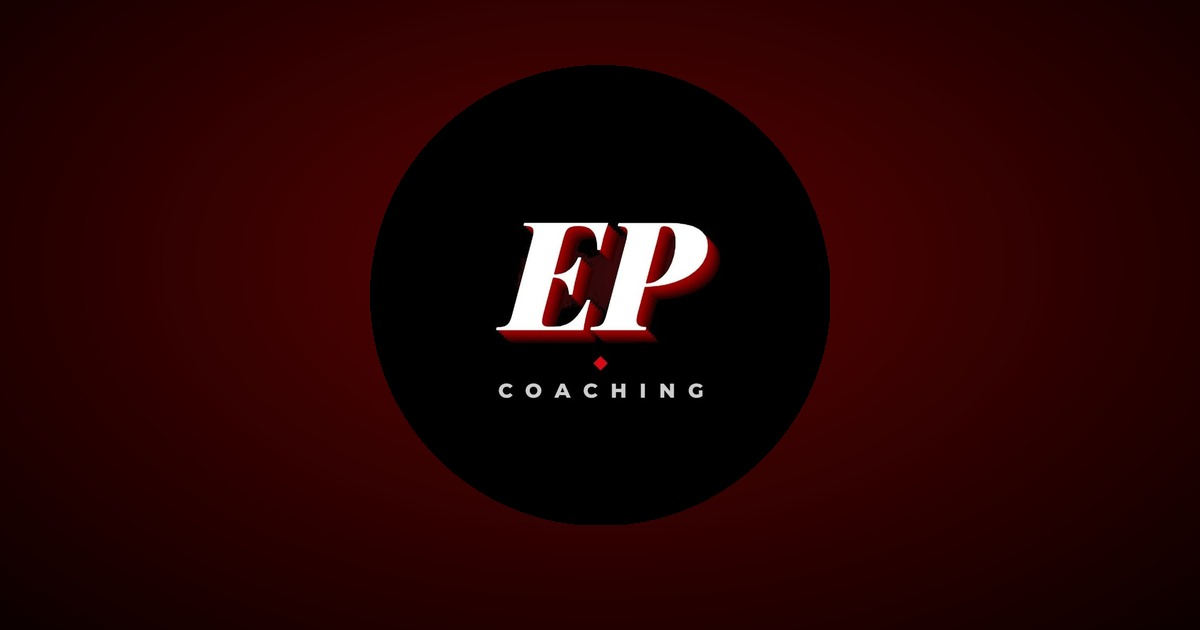
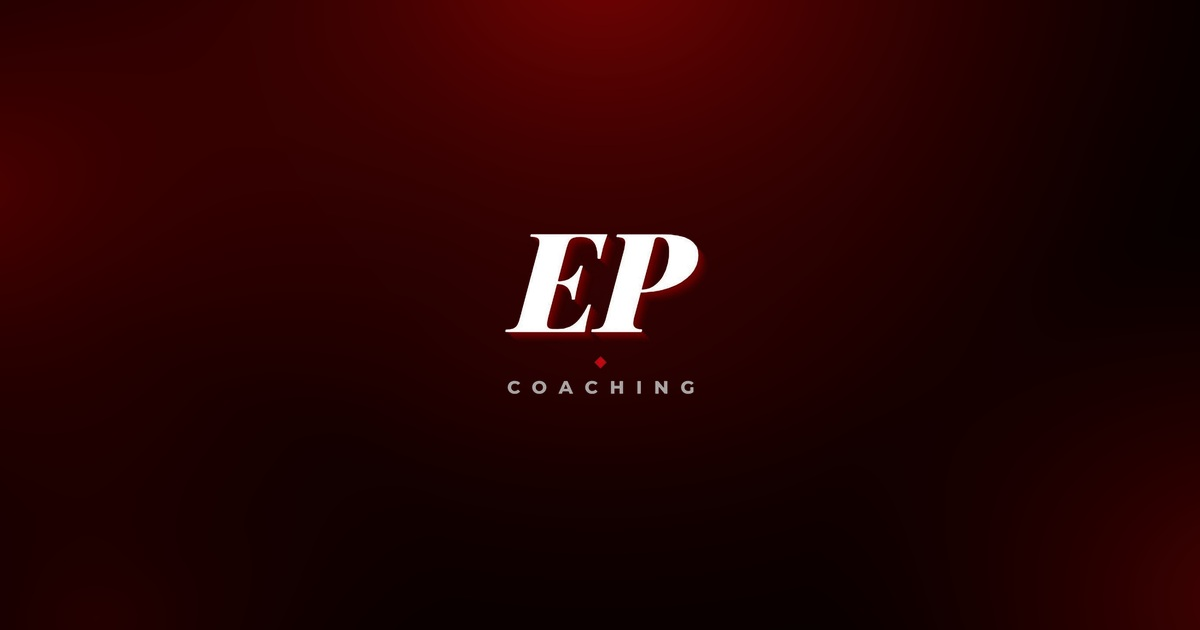
Feat: rappel hebdo de réengagement, nouvelle image et texte de partage
- Nouveau job hebdomadaire (Supabase pg_cron, comme nag-tasks) qui relance
  les clients inscrits mais peu actifs : push s'ils sont abonnés, sinon
  email — jamais plus d'1x/semaine par personne (garde-fou en base en plus
  du cron lui-même). Messages variés orientés découverte de fonctionnalité
  (roadmap, communauté, nutrition, logbook, ressources).
- Image de partage (og-image.jpg) refaite : le fond uni + halo noir autour
  du logo est remplacé par un dégradé qui reprend l'ambiance réelle de
  l'appli, logo directement dessus (fond noir du logo source détouré).
- Texte de partage réécrit : l'ancien ("Entraînement, nutrition et suivi...")
  ne vendait rien. Nouveau texte centré sur la promesse réelle — une vraie
  communauté et tous les outils réunis pour atteindre son objectif.

diff --git a/app/api/cron/weekly-reengagement/route.ts b/app/api/cron/weekly-reengagement/route.ts
@@ -1,0 +1,93 @@
+import { NextResponse } from "next/server";
+import { createAdminClient } from "@/lib/supabase-admin";
+import { sendPushToUser } from "@/lib/push";
+import { sendBrevoEmail } from "@/utils/brevo";
+
+// Rappel hebdomadaire de réengagement — 1 fois par semaine maximum, par
+// client, jamais plus (garde-fou via last_reengagement_notified_at, en plus
+// du cron lui-même qui ne tourne qu'une fois par semaine). Déclenché par
+// Supabase pg_cron, voir supabase/migrations/20260715_reengagement_notifications.sql.
+// Deux canaux :
+//   - push, si le client a déjà autorisé les notifications (sendPushToUser
+//     renvoie reason: "no subscription" sinon, ce qui sert de bascule) ;
+//   - sinon email, pour ne jamais laisser un inscrit sans aucune sollicitation
+//     simplement parce qu'il n'a pas (encore) accepté les notifications.
+
+const PUSH_MESSAGES = [
+  { title: "🗺 Ta Road Map t'attend", body: "Fixe tes objectifs à 3 mois si ce n'est pas déjà fait.", url: "/dashboard/client/roadmap" },
+  { title: "🏆 Partage ta victoire de la semaine", body: "La communauté est là pour t'encourager — même une petite victoire compte.", url: "/dashboard/client/communaute/victoires" },
+  { title: "🍽 Check tes macros du jour", body: "Ton calculateur nutrition est prêt en 2 minutes.", url: "/dashboard/client/nutrition" },
+  { title: "💪 Log ta dernière séance", body: "Même une séance rapide mérite sa place dans ton logbook.", url: "/dashboard/client/logbook" },
+  { title: "📚 Nouvelles ressources dispo", body: "Des guides et recettes gratuites t'attendent.", url: "/dashboard/client/ressources" },
+];
+
+const EMAIL_SUBJECT = "On continue ?";
+function emailBody(firstName: string) {
+  const url = process.env.NEXT_PUBLIC_APP_URL ?? "https://ep-coaching.vercel.app";
+  return `
+    <div style="font-family:sans-serif;background:#270101;color:#F5EDED;padding:32px;border-radius:12px;">
+      <h2 style="color:#E01E1E;margin-top:0;">Salut ${firstName} 👋</h2>
+      <p>Ton compte EP Coaching est prêt — programme, nutrition, communauté, tout est gratuit et accessible dès maintenant.</p>
+      <p>Deux minutes suffisent pour reprendre où tu t'es arrêté·e.</p>
+      <a href="${url}/dashboard/client" style="background:#E01E1E;color:white;padding:12px 24px;border-radius:8px;text-decoration:none;display:inline-block;font-weight:700;margin-top:8px;">
+        Ouvrir mon espace
+      </a>
+    </div>
+  `;
+}
+
+export async function GET(req: Request) {
+  const auth = req.headers.get("authorization");
+  if (auth !== `Bearer ${process.env.CRON_SECRET}`) {
+    return NextResponse.json({ error: "Unauthorized" }, { status: 401 });
+  }
+
+  const supabase = createAdminClient();
+  const sevenDaysAgo = new Date(Date.now() - 7 * 24 * 60 * 60 * 1000).toISOString();
+
+  const { data: clients } = await supabase
+    .from("profiles")
+    .select("id, full_name")
+    .eq("role", "client")
+    .not("onboarding_completed_at", "is", null)
+    .or(`last_reengagement_notified_at.is.null,last_reengagement_notified_at.lt.${sevenDaysAgo}`);
+
+  let pushed = 0;
+  let emailed = 0;
+
+  for (const client of (clients as { id: string; full_name: string | null }[]) ?? []) {
+    const msg = PUSH_MESSAGES[Math.floor(Math.random() * PUSH_MESSAGES.length)];
+    const pushResult = await sendPushToUser(client.id, msg.title, msg.body, msg.url);
+
+    let notified = pushResult.ok;
+    if (pushResult.ok) {
+      pushed++;
+    } else if (pushResult.reason === "no subscription") {
+      const { data: profile } = await supabase
+        .from("profiles")
+        .select("email")
+        .eq("id", client.id)
+        .single();
+      if (profile?.email) {
+        const ok = await sendBrevoEmail({
+          to: profile.email,
+          subject: EMAIL_SUBJECT,
+          htmlContent: emailBody(client.full_name?.split(" ")[0] ?? ""),
+        });
+        if (ok) {
+          emailed++;
+          notified = true;
+        }
+      }
+    }
+
+    if (notified) {
+      await supabase
+        .from("profiles")
+        .update({ last_reengagement_notified_at: new Date().toISOString() })
+        .eq("id", client.id);
+    }
+  }
+
+  return NextResponse.json({ ok: true, candidates: clients?.length ?? 0, pushed, emailed });
+}

diff --git a/app/layout.tsx b/app/layout.tsx
@@ -16,9 +16,9 @@ const playfair = Playfair_Display({
 });
 
 const APP_URL = process.env.NEXT_PUBLIC_APP_URL ?? "https://ep-coaching.vercel.app";
-const SITE_TITLE = "EP Coaching";
+const SITE_TITLE = "EP Coaching — Ta transformation commence ici";
 const SITE_DESCRIPTION =
-  "Entraînement, nutrition et suivi guidés par un vrai coach — gratuit pour commencer, dès maintenant.";
+  "Une vraie communauté et tous les outils dont tu as besoin pour atteindre ton objectif — entraînement, nutrition, suivi, un vrai coach derrière toi. Gratuit, dès aujourd'hui.";
 
 export const metadata: Metadata = {
   metadataBase: new URL(APP_URL),
